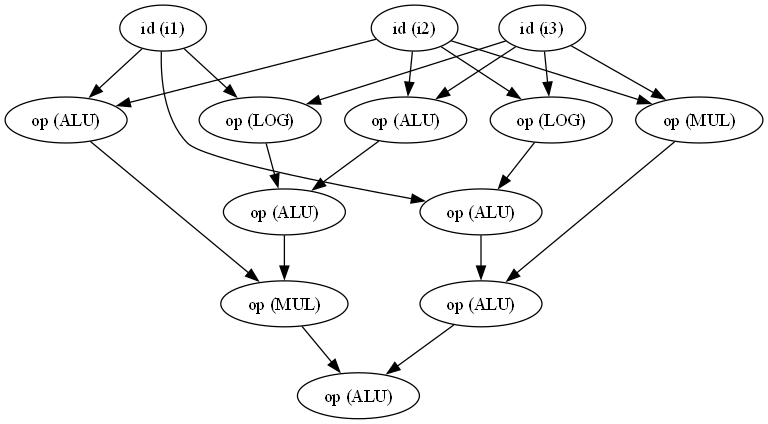
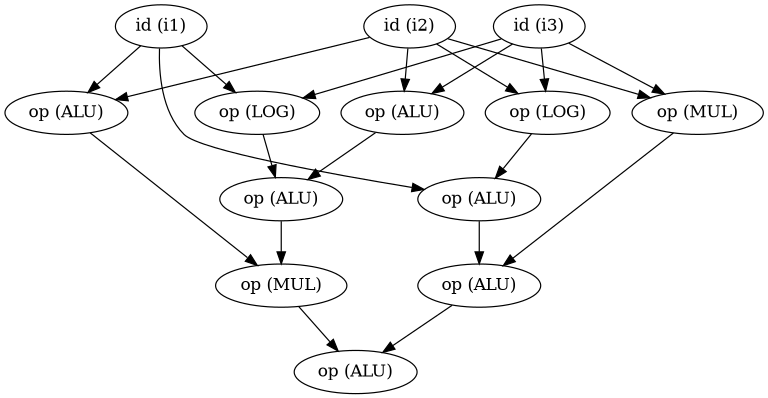
update DFG visualizer

diff --git a/src/graph_visualizer.py b/src/graph_visualizer.py
@@ -4,22 +4,44 @@ from .scheduler import ScheduledNodeInfo
 from .dfg_creator import *
 
 def determine_operation_type(op) -> str:
-    if isinstance(op, (ast.Add, ast.Sub)):
-        return "ALU"
-    elif isinstance(op, (ast.Mult, ast.Div, ast.Mod)):
-        return "MUL"
-    elif isinstance(op, (ast.BitAnd, ast.BitOr, ast.BitXor)):
-        return "LOG"
-    else:
-        return "?"
+    symbols = {
+        ast.Add: "+", ast.Sub: "-", ast.Mult: "*", ast.Div: "/",
+        ast.FloorDiv: "//", ast.Mod: "%", ast.Pow: "**",
 
-def parse_expression(expression):
-    try:
-        tree = ast.parse(expression, mode='eval').body
-        return tree
-    except SyntaxError as e:
-        print(f"Error parsing expression: {e}")
-        return
+        ast.LShift: "<<", ast.RShift: ">>",
+
+        ast.BitAnd: "&", ast.BitOr: "|", ast.BitXor: "^",
+
+        ast.Invert: "~", ast.Not: "not", ast.UAdd: "+", ast.USub: "-",
+
+        ast.Eq: "==", ast.NotEq: "!=", ast.Lt: "<", ast.LtE: "<=",
+        ast.Gt: ">", ast.GtE: ">=",
+    }
+
+    sym = symbols.get(type(op), "?")
+
+    if isinstance(op, (ast.Add, ast.Sub)):
+        return f"ALU({sym})"
+
+    elif isinstance(op, (ast.Mult, ast.Div, ast.FloorDiv, ast.Mod)):
+        return f"mult({sym})"
+
+    elif isinstance(op, (ast.LShift, ast.RShift)):
+        return f"shift({sym})"
+
+    elif isinstance(op, (ast.BitAnd, ast.BitOr, ast.BitXor)):
+        return f"logic({sym})"
+
+    elif isinstance(op, (ast.Invert, ast.Not, ast.UAdd, ast.USub)):
+        return f"unary({sym})"
+
+    elif isinstance(op, (ast.Eq, ast.NotEq, ast.Lt, ast.LtE,
+                          ast.Gt, ast.GtE)):
+        return f"cmp({sym})"
+
+    else:
+        return f"?({sym})"
+
 
 def visualize_graph(root):
     dot = graphviz.Digraph(comment='Abstract Syntax Tree')
@@ -35,13 +57,13 @@ def visualize_graph(root):
         node_counter += 1
 
         if isinstance(node, ast.BinOp):
-            label = f"op ({determine_operation_type(node.op)})"
+            label = f"{determine_operation_type(node.op)}"
             add_node_and_edges(node.left, cur_node_id)
             add_node_and_edges(node.right, cur_node_id)
         elif isinstance(node, ast.Name):
-            label = f"id ({node.id})"
+            label = f"{node.id}"
         elif isinstance(node, ast.Constant):
-            label = f"const ({node.value})"
+            label = f"{node.value}"
         else:
             label = type(node).__name__
 
@@ -108,6 +130,14 @@ def visualize_scheduled_graph(root_id, schedule_info : List[ScheduledNodeInfo]):
     root_sched = find_node_by_id(root_id)
     add_node_and_edges(node_sched=root_sched, node=root_sched.node)
     return dot
+
+def parse_expression(expression):
+    try:
+        tree = ast.parse(expression, mode='eval').body
+        return tree
+    except SyntaxError as e:
+        print(f"Error parsing expression: {e}")
+        return
 
 def expression_to_graph(expression):
     return parse_expression(expression)

diff --git a/main.py b/main.py
@@ -18,7 +18,7 @@ def build_dfg(expression: str, folder_path : str):
 
     dot = visualize_graph(ast_root)
     dot.attr(label="", labelloc='t', fontsize='17')  
-    dot.render(folder_path + "/pics/DFG", format='png', view=False, cleanup=True)
+    dot.render(folder_path + "/pics/DFG-V2", format='png', view=False, cleanup=True)
 
     builder = GraphBuilder()
     return builder.build(ast_root)
@@ -73,7 +73,7 @@ def run_test(folder_path : str):
     generate_verilog(folder_path=folder_path, schedule_info=schedule_info)
 
 def main():
-    if len(sys.argv) > 1:
+    if len(sys.argv) == 2:
         run_test(folder_path=sys.argv[1])
     else:
         print("Please provide the input folder path.")
